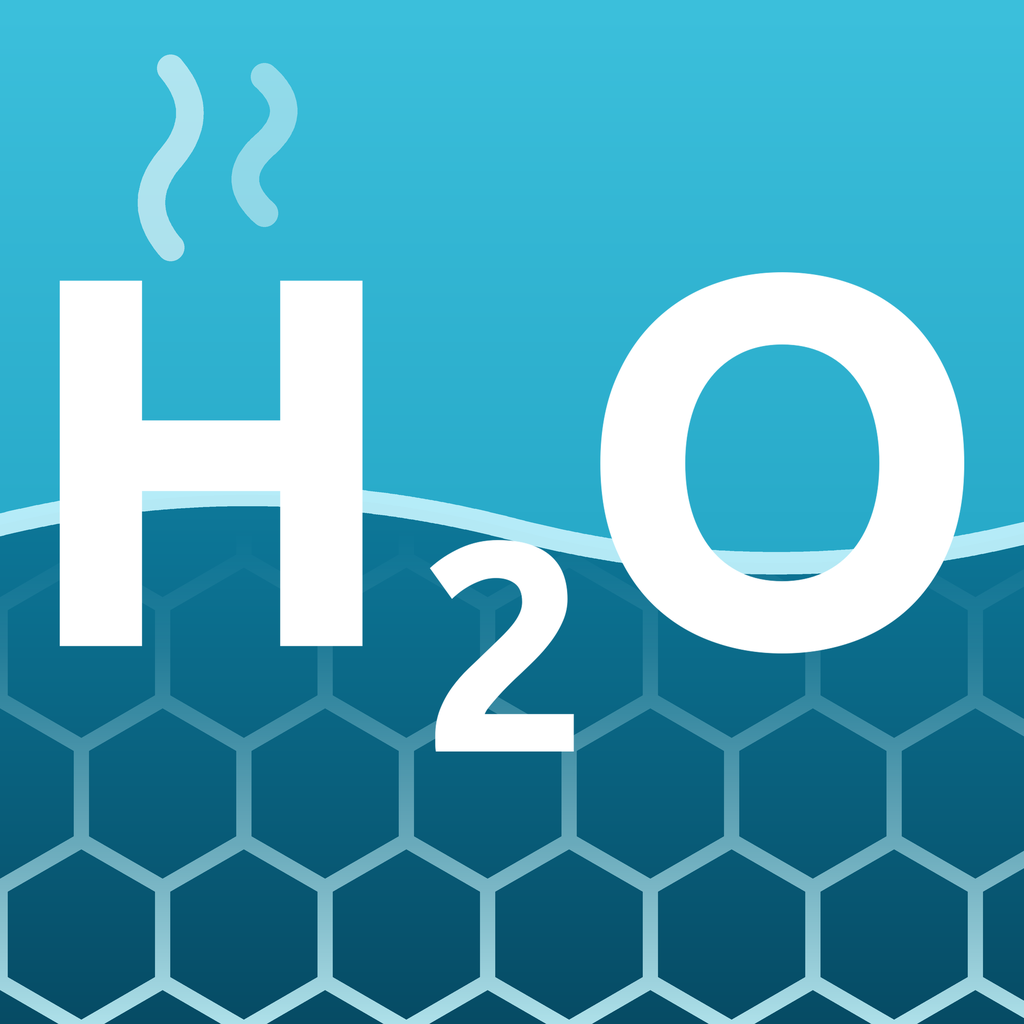
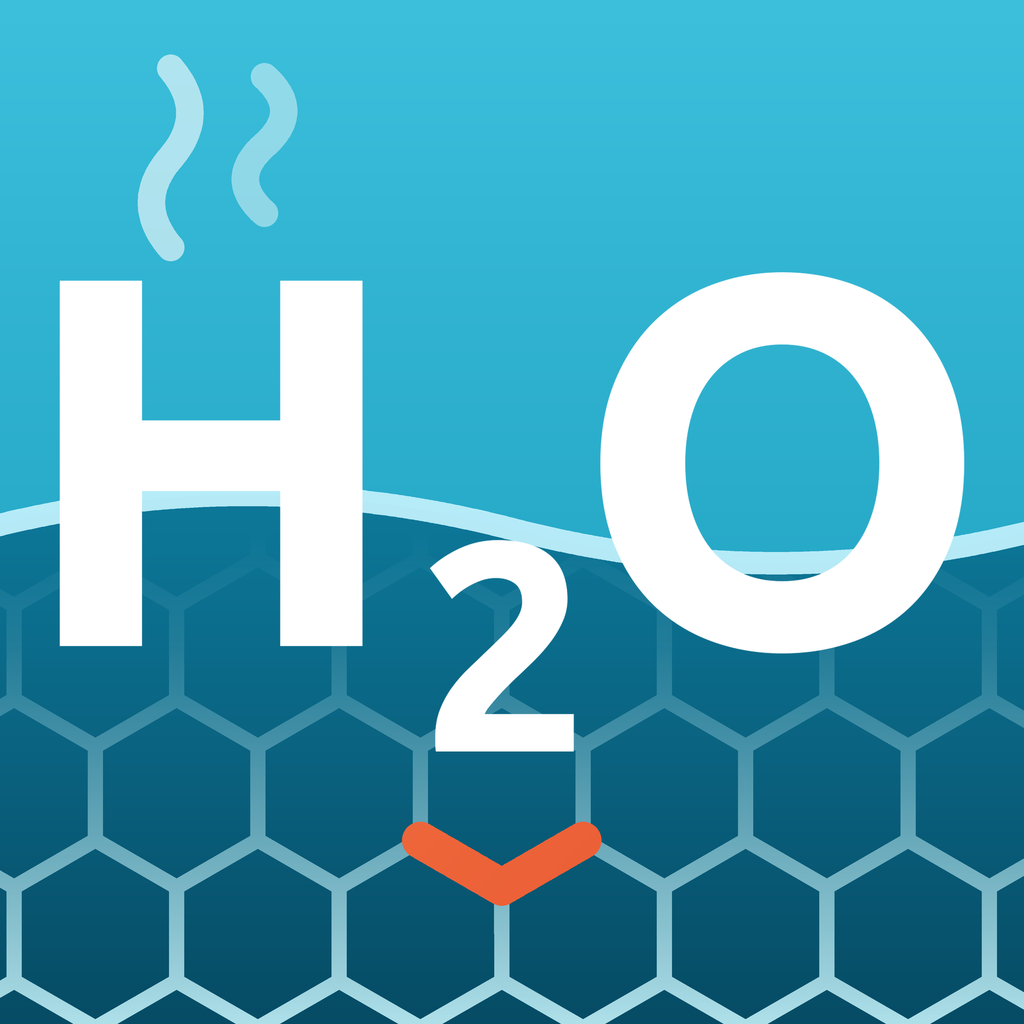
Icoon: raster iets naar rechts en een oranje V onder de 2 (alle formaten, ook Android adaptief en rond)

Changed region(s): [[0.0, 0.625, 1.0, 1.0], [0.5, 0.6875, 0.5312, 0.7188], [0.4688, 0.6562, 0.5, 0.6875]]

diff --git a/Tools/Icoon/maak_icoon.py b/Tools/Icoon/maak_icoon.py
@@ -1,4 +1,5 @@
-"""Tekent het app-icoon van Water.sim (ontwerp: Docs/Icoon/watersim_icoon.svg, gekozen 8 nov 2026).
+"""Tekent het app-icoon van Water.sim (ontwerp: Docs/Icoon/watersim_icoon.svg, gekozen 8 nov 2026;
+oranje V onder de 2 toegevoegd 11 nov 2026, zie Docs/Mockups/icoon_hex_keuze.png).
 
 Gebruik:  python3 Tools/Icoon/maak_icoon.py
 Uitvoer:
@@ -34,6 +35,10 @@ IJS = (0xC4, 0xF4, 0xFB)
 HEX_R, HEX_W, HEX_MAX = 11.0, 1.8, 0.85
 MARGE = 7.0                   # ruimte links en rechts van H2O (van 120)
 TWEE_OPTISCH = 0.5            # plek van de 2: 0 = midden tussen de buitenranden, 1 = optisch midden op de hoogte van de 2
+ORANJE = ((0xF7, 0x88, 0x4D), (0xE8, 0x50, 0x2E))   # verloop van de oranje knoppen in de app (links-boven → rechts-onder)
+V_DIKTE = HEX_W * 2.4         # oranje V: de twee onderste zijden van de zeshoek onder de 2 (zoals de streep onder het molecuul
+                              # bij de andere scheikunde-iconen; gekozen 11 nov 2026)
+TWEE_OVERLAP = 6.1            # zoveel valt de bovenpunt van die zeshoek achter de 2 (eenheden, bij volle lettergrootte)
 
 
 def p(x, y):
@@ -72,13 +77,13 @@ def zeshoek(d, cx, cy, r, w, kleur):
     d.line(pts + [pts[0], pts[1]], fill=kleur, width=int(w * K), joint="curve")
 
 
-def ijsrooster(watervorm):
+def ijsrooster(watervorm, schuif=(0.0, 0.0)):
     laag = Image.new("RGBA", (S, S), (0, 0, 0, 0))
     d = ImageDraw.Draw(laag)
     dx = HEX_R * math.sqrt(3)
-    for j in range(8):
-        for i in range(-1, int(124 / dx) + 2):
-            zeshoek(d, i * dx + (dx / 2 if j % 2 else 0), GY - 2 + j * HEX_R * 1.5, HEX_R, HEX_W, IJS + (255,))
+    for j in range(-1, 9):
+        for i in range(-2, int(124 / dx) + 2):
+            zeshoek(d, i * dx + (dx / 2 if j % 2 else 0) + schuif[0], GY - 2 + j * HEX_R * 1.5 + schuif[1], HEX_R, HEX_W, IJS + (255,))
     # vriesverloop: onzichtbaar bij de golf, onderin HEX_MAX zichtbaar
     alfa = Image.new("L", (1, S))
     for y in range(S):
@@ -172,12 +177,62 @@ def h2o(breedte_eenheden, midden_y=60.0):
     return laag
 
 
-def achtergrond(met_stoom=True):
+def twee_plek(letters):
+    """Midden (x) en onderkant (y) van de 2 in een H2O-laag, in eenheden. De 2 is het laagste stuk inkt;
+    vanuit het midden van zijn onderste balk wordt de hele 2 opgevuld."""
+    a = letters.getchannel("A")
+    l, t, r_, b = a.getbbox()
+    binair = a.point(lambda v: 255 if v > 0 else 0)
+    y = b - int(0.2 * K)
+    rij = [binair.getpixel((x, y)) for x in range(l, r_)] + [0]
+    beste, start = (0, 0), None
+    for i, v in enumerate(rij):
+        if v == 255 and start is None: start = i
+        if v != 255 and start is not None:
+            if i - start > beste[1] - beste[0]: beste = (start, i)
+            start = None
+    ImageDraw.floodfill(binair, (l + (beste[0] + beste[1]) // 2, y), 128)
+    l2, _, r2, b2 = binair.point(lambda v: 255 if v == 128 else 0).getbbox()
+    return ((l2 + r2) / 2 / K, b2 / K)
+
+
+def zeshoek_onder_twee(twee, schaal):
+    """Midden van de zeshoek onder de 2, en de verschuiving van het raster waarmee daar een zeshoek staat."""
+    dx = HEX_R * math.sqrt(3)
+    cx, cy = twee[0], twee[1] - TWEE_OVERLAP * schaal + HEX_R
+    j = round((cy - (GY - 2)) / (HEX_R * 1.5))
+    rij_x = (dx / 2 if j % 2 else 0)
+    i = round((cx - rij_x) / dx)
+    return (cx, cy), (cx - (i * dx + rij_x), cy - (GY - 2 + j * HEX_R * 1.5))
+
+
+def oranje_v(midden):
+    """De twee onderste zijden van de zeshoek rond midden, dik, in het oranje verloop."""
+    cx, cy = midden
+    h = [(cx + HEX_R * math.cos(math.pi / 3 * k + math.pi / 6), cy + HEX_R * math.sin(math.pi / 3 * k + math.pi / 6)) for k in range(3)]
+    vorm = Image.new("RGBA", (S, S), (0, 0, 0, 0))
+    lijn_pad(ImageDraw.Draw(vorm), h, V_DIKTE, (255, 255, 255, 255))
+    vlak = Image.new("RGB", (256, 256))
+    for y in range(256):
+        for x in range(256):
+            t = (x + y) / 510
+            vlak.putpixel((x, y), tuple(int(ORANJE[0][i] + (ORANJE[1][i] - ORANJE[0][i]) * t) for i in range(3)))
+    vlak = vlak.resize((S, S)).convert("RGBA")
+    vlak.putalpha(vorm.getchannel("A"))
+    return vlak
+
+
+def achtergrond(met_stoom=True, twee=None, schaal=1.0):
+    """twee: plek van de 2 (uit twee_plek); dan schuift het raster zo dat er een zeshoek onder de 2 valt,
+    en krijgt die zeshoek een oranje V. schaal: lettergrootte ten opzichte van het gewone icoon."""
     img = verloop(BOVEN, 0, 120).convert("RGBA")
     water = watermasker()
     onder = verloop(ONDER, GY - AMP * 1.6, 122).convert("RGBA")
     img.paste(onder, (0, 0), water)
-    img = Image.alpha_composite(img, ijsrooster(water))
+    midden, schuif = zeshoek_onder_twee(twee, schaal) if twee else (None, (0.0, 0.0))
+    img = Image.alpha_composite(img, ijsrooster(water, schuif))
+    if midden:
+        img = Image.alpha_composite(img, oranje_v(midden))
     schuim = Image.new("RGBA", (S, S), (0, 0, 0, 0))   # aparte laag: anders stapelt de doorzichtigheid op
     lijn_pad(ImageDraw.Draw(schuim), golf_punten(), 2.6, SCHUIM + (int(255 * 0.95),))
     img = Image.alpha_composite(img, schuim)
@@ -205,17 +260,21 @@ def afgerond(img, rx=27):
 def main():
     os.makedirs(UIT_ASSETS, exist_ok=True)
     os.makedirs(UIT_DOCS, exist_ok=True)
-    bg = achtergrond()
-    volledig = Image.alpha_composite(bg, h2o(120 - 2 * MARGE))
+    letters = h2o(120 - 2 * MARGE)
+    bg = achtergrond(twee=twee_plek(letters))
+    volledig = Image.alpha_composite(bg, letters)
     icoon = klein(volledig).convert("RGB")
     icoon.save(os.path.join(UIT_ASSETS, "icoon_1024.png"))
     icoon.resize((512, 512), Image.LANCZOS).save(os.path.join(UIT_DOCS, "icoon_store_512.png"))
 
-    # Android adaptief: 108 dp laag, veilige zone 66 dp in het midden → H2O op ~58 % van de breedte
-    klein(bg).convert("RGB").save(os.path.join(UIT_ASSETS, "android_achtergrond.png"))
-    klein(h2o(120 * 0.58)).save(os.path.join(UIT_ASSETS, "android_voorgrond.png"))
+    # Android adaptief: 108 dp laag, veilige zone 66 dp in het midden → H2O op ~58 % van de breedte.
+    # De letters staan daar kleiner, dus de zeshoek met de oranje V komt op een eigen plek onder die 2.
+    letters_a = h2o(120 * 0.58)
+    bg_a = achtergrond(twee=twee_plek(letters_a), schaal=120 * 0.58 / (120 - 2 * MARGE))
+    klein(bg_a).convert("RGB").save(os.path.join(UIT_ASSETS, "android_achtergrond.png"))
+    klein(letters_a).save(os.path.join(UIT_ASSETS, "android_voorgrond.png"))
     # Android rond icoon (oudere toestellen): de adaptieve lagen samen, rond uitgesneden
-    rond1024 = Image.alpha_composite(klein(bg), klein(h2o(120 * 0.58)))
+    rond1024 = Image.alpha_composite(klein(bg_a), klein(letters_a))
     mr = Image.new("L", (MAAT, MAAT), 0)
     ImageDraw.Draw(mr).ellipse([0, 0, MAAT - 1, MAAT - 1], fill=255)
     rond1024.putalpha(mr)
@@ -228,7 +287,7 @@ def main():
     for m in (180, 120, 80, 58):
         vb.alpha_composite(afgerond(icoon.convert("RGBA").resize((m, m), Image.LANCZOS)), (x, 40))
         x += m + 20
-    rond = Image.alpha_composite(klein(bg), klein(h2o(120 * 0.58))).resize((300, 300), Image.LANCZOS)
+    rond = Image.alpha_composite(klein(bg_a), klein(letters_a)).resize((300, 300), Image.LANCZOS)
     m = Image.new("L", (300, 300), 0)
     ImageDraw.Draw(m).ellipse([0, 0, 299, 299], fill=255)
     rond.putalpha(m)
